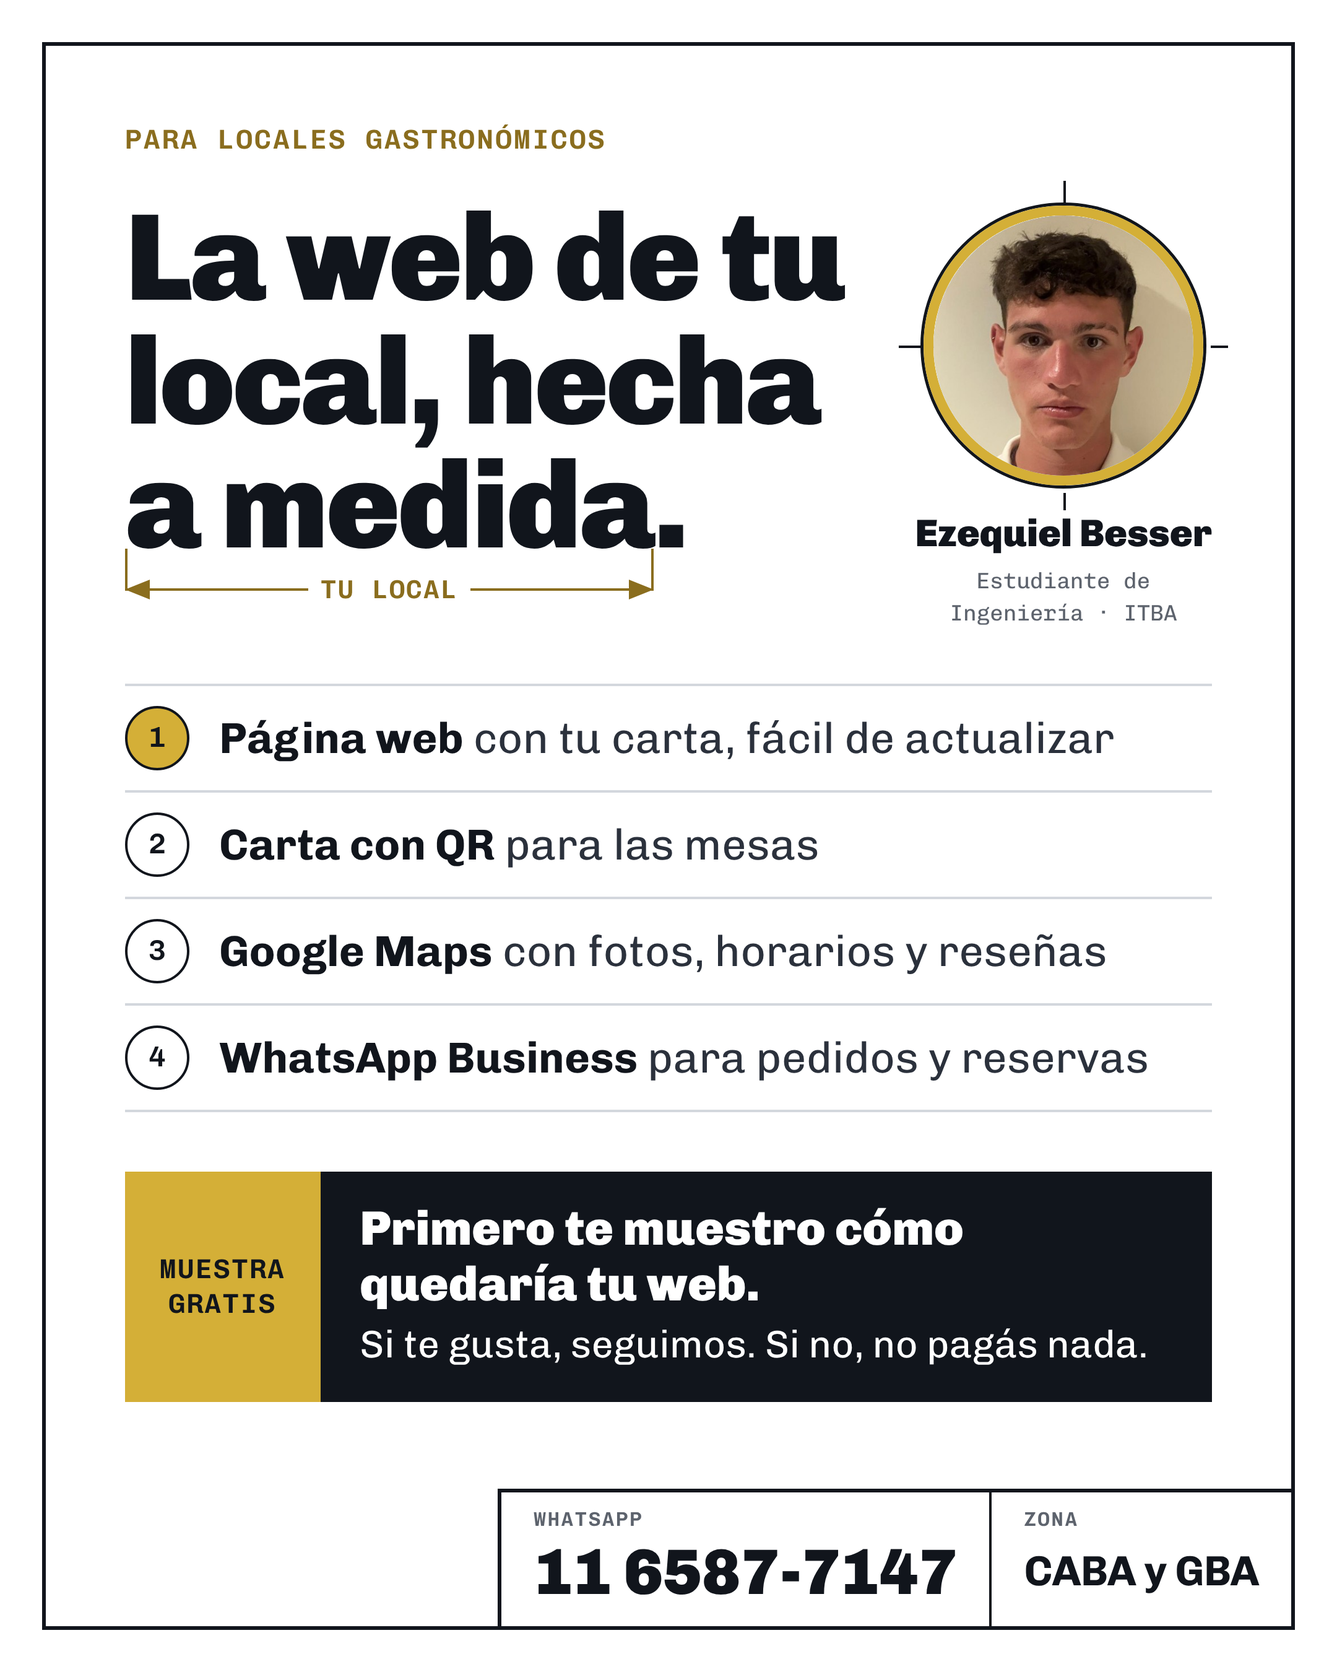
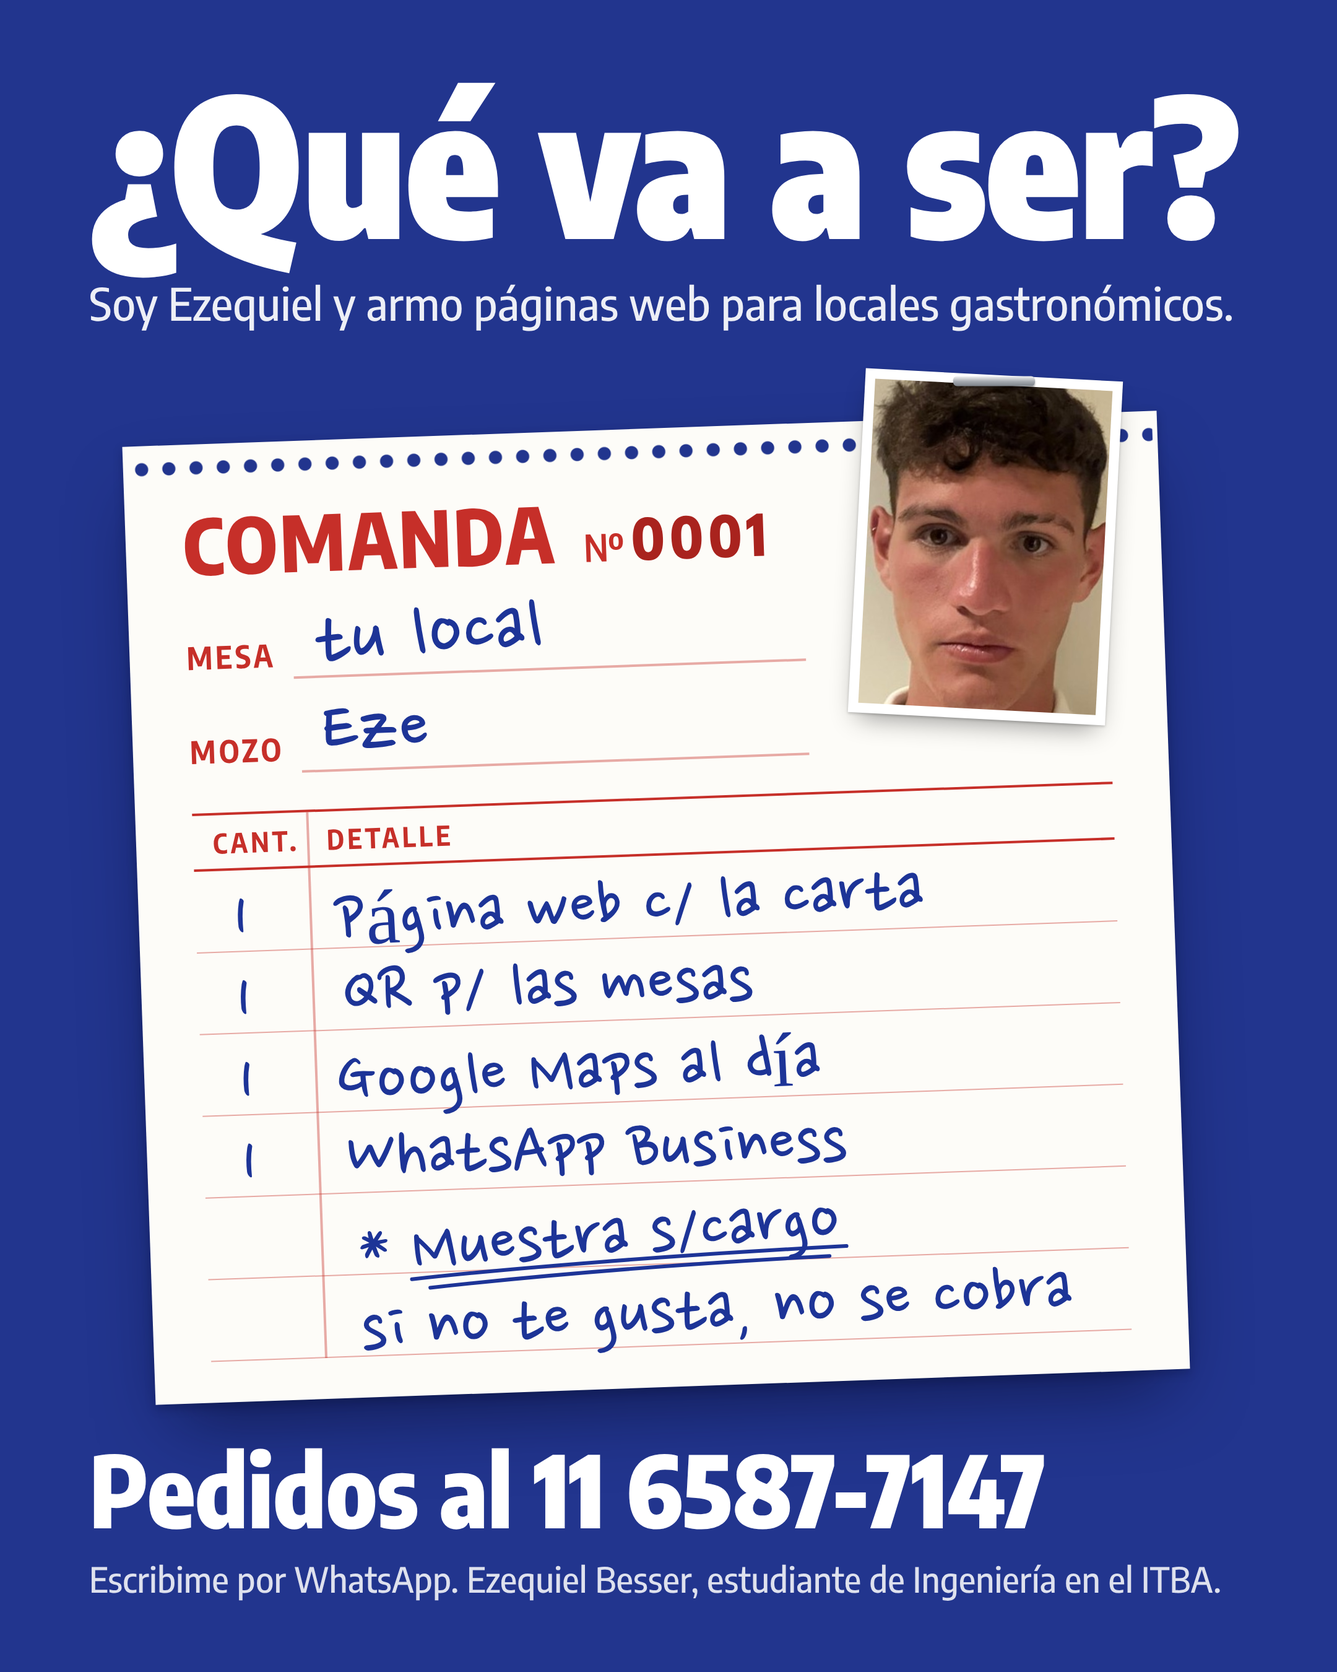
Flyer nuevo: la comanda del mozo
El anterior parecía hecho con IA (etiqueta en mayúsculas, círculos
numerados, «hecha a medida»). Ahora es una comanda de talonario impresa
en rojo y escrita con birome: «¿Qué va a ser?», Mesa: tu local,
Mozo: Eze con su foto carnet abrochada, los cuatro trabajos para
gastronomía y «Muestra s/cargo». Abajo, «Pedidos al 11 6587-7147»,
como en los imanes de delivery.

generar.js ahora avisa si no cargan las letras o si algo se encima.

Claude-Session: https://claude.ai/code/session_01Yb4EGLZtZgQK7kZLUGyvXu

diff --git a/flyer/index.html b/flyer/index.html
@@ -3,126 +3,113 @@
 <head>
 <meta charset="UTF-8">
 <meta name="viewport" content="width=device-width, initial-scale=1.0">
-<title>Ezequiel Besser · Webs para gastronomía</title>
-<meta name="description" content="Páginas web para locales gastronómicos de CABA y GBA: tu carta, carta con QR para las mesas, Google Maps y WhatsApp Business. Muestra gratis antes de pagar.">
-<meta property="og:title" content="Ezequiel Besser · La web de tu local, hecha a medida">
-<meta property="og:description" content="Para locales gastronómicos. Primero te muestro cómo quedaría tu web, gratis.">
+<title>Ezequiel Besser · Páginas web para locales gastronómicos</title>
+<meta name="description" content="Armo páginas web para locales gastronómicos de CABA y GBA: con la carta, QR para las mesas, Google Maps y WhatsApp Business. La muestra va sin cargo.">
+<meta property="og:title" content="¿Qué va a ser? · Páginas web para locales gastronómicos">
+<meta property="og:description" content="Soy Ezequiel y armo páginas web para locales gastronómicos. La muestra va sin cargo.">
 <meta property="og:image" content="https://ezebesserr.github.io/Ezequiel-Besser-repositorio-1/flyer/og.jpg">
 <meta property="og:url" content="https://ezebesserr.github.io/Ezequiel-Besser-repositorio-1/flyer/">
 <meta property="og:type" content="website">
 <link rel="preconnect" href="https://fonts.googleapis.com">
 <link rel="preconnect" href="https://fonts.gstatic.com" crossorigin>
-<link rel="stylesheet" href="https://fonts.googleapis.com/css2?family=Chivo:wght@400;700;900&family=Chivo+Mono:wght@400;600&display=swap">
+<link rel="stylesheet" href="https://fonts.googleapis.com/css2?family=Encode+Sans:wdth,wght@75..100,400..900&family=Nanum+Pen+Script&display=swap">
 <style>
-  /* Identidad: la lámina de un estudiante de Ingeniería (marco, cota, globos numerados, rótulo en la esquina)
-     con el tinta y el dorado de su página de clases. Letras de Omnibus-Type, fundición porteña.
-     Formato 1080×1350 (4:5): se manda por WhatsApp y así se ve entera en el chat. */
+  /* Una comanda de talonario, impresa en rojo y escrita con birome por el mozo.
+     Azul de la birome (invento porteño) y rojo de imprenta. Encode Sans es de Impallari (Rosario).
+     Formato 1080×1350 (4:5) para que WhatsApp la muestre entera en el chat. */
   :root{
-    --tinta:#11151c; --tinta-2:#2b313c; --gris:#5d636d; --linea:#d3d7dd;
-    --oro:#d4af37; --oro-osc:#8a6d1e;
-    --f:"Chivo",system-ui,sans-serif; --mono:"Chivo Mono",ui-monospace,monospace;
+    --birome:#22358e; --tinta:#1d3497; --rojo:#c62f29; --rojo-2:#a9231e; --rojo-linea:rgba(198,47,41,.4);
+    --papel:#fdfcf8;
+    --f:"Encode Sans",system-ui,sans-serif; --mano:"Nanum Pen Script","Comic Sans MS",cursive;
   }
   *{box-sizing:border-box;margin:0;padding:0}
-  html,body{background:#dfe2e6}
-  body{font-family:var(--f);color:var(--tinta)}
+  html,body{background:#d9dbe0}
+  body{font-family:var(--f)}
 
-  .hoja{width:1080px;height:1350px;margin:0 auto;position:relative;overflow:hidden;background:#fff}
-  @media screen and (min-width:1110px){.hoja{margin:24px auto;box-shadow:0 2px 14px rgba(0,0,0,.18)}}
-  .marco{position:absolute;inset:34px;border:3px solid var(--tinta)}
-  .lamina{position:absolute;inset:37px;padding:62px 64px 0;display:flex;flex-direction:column}
+  .hoja{width:1080px;height:1350px;margin:0 auto;position:relative;overflow:hidden;background:var(--birome);color:#fff}
+  @media screen and (min-width:1110px){.hoja{margin:24px auto;box-shadow:0 2px 14px rgba(0,0,0,.2)}}
 
-  .etq{font:600 22px/1.3 var(--mono);letter-spacing:.08em;text-transform:uppercase;color:var(--oro-osc)}
+  .cabeza{position:absolute;left:72px;right:72px;top:58px}
+  h1{font-weight:900;font-stretch:75%;font-size:156px;line-height:.92;letter-spacing:-.012em}
+  .soy{font-weight:500;font-stretch:87.5%;font-size:36px;line-height:1.25;margin-top:20px;color:rgba(255,255,255,.92)}
 
-  /* Título y foto */
-  .cabeza{display:grid;grid-template-columns:1fr 240px;gap:28px;align-items:start;margin-top:30px}
-  h1{font:900 100px/1 var(--f);letter-spacing:-.022em;padding-bottom:50px}
-  .cota{position:relative;display:inline-block}
-  .cota-l{position:absolute;left:0;right:0;top:calc(100% + 6px);height:24px;display:flex;align-items:center;gap:10px;color:var(--oro-osc)}
-  .cota-l::before,.cota-l::after{content:"";position:absolute;bottom:11px;width:2px;height:34px;background:currentColor}
-  .cota-l::before{left:0} .cota-l::after{right:0}
-  .cota-l i{flex:1;height:2px;background:currentColor;position:relative}
-  .cota-l i::before{content:"";position:absolute;top:-7px;border:8px solid transparent}
-  .cota-l i:first-child::before{left:0;border-left:0;border-right:20px solid currentColor}
-  .cota-l i:last-child::before{right:0;border-right:0;border-left:20px solid currentColor}
-  .cota-l b{font:600 21px/1 var(--mono);letter-spacing:.06em;text-transform:uppercase}
+  /* La comanda */
+  .comanda{position:absolute;left:112px;top:346px;width:836px;height:774px;padding:50px 46px 0;
+    background:var(--papel);color:var(--rojo);transform:rotate(-2deg);
+    box-shadow:0 30px 60px -18px rgba(5,9,40,.6),0 3px 8px rgba(5,9,40,.25)}
+  .comanda::before{content:"";position:absolute;left:4px;right:4px;top:13px;height:12px;
+    background:radial-gradient(circle,var(--birome) 5px,transparent 5.6px) 0 0/22px 12px repeat-x}
 
-  .quien{text-align:center;padding-top:8px}
-  .foto{position:relative;width:226px;height:226px;margin:0 auto 22px}
-  .foto::before,.foto::after{content:"";position:absolute;z-index:0}
-  .foto::before{left:-20px;right:-20px;top:50%;height:2px;
-    background:repeating-linear-gradient(90deg,var(--tinta) 0 20px,transparent 20px 26px,var(--tinta) 26px 30px,transparent 30px 36px)}
-  .foto::after{top:-20px;bottom:-20px;left:50%;width:2px;
-    background:repeating-linear-gradient(180deg,var(--tinta) 0 20px,transparent 20px 26px,var(--tinta) 26px 30px,transparent 30px 36px)}
-  .foto img{position:relative;z-index:1;width:100%;height:100%;border-radius:50%;object-fit:cover;display:block;
-    border:8px solid var(--oro);box-shadow:0 0 0 2.5px var(--tinta)}
-  .nombre{font:900 31px/1.1 var(--f);letter-spacing:-.005em}
-  .cred{font:400 18px/1.45 var(--mono);color:var(--gris);margin-top:8px}
+  .enc{display:flex;align-items:baseline;gap:22px}
+  .enc .tit{font-weight:800;font-stretch:75%;font-size:62px;line-height:1;text-transform:uppercase;letter-spacing:.03em}
+  .enc .num{font-weight:600;font-stretch:75%;font-size:30px}
+  .enc .num b{font-weight:800;font-size:46px;letter-spacing:.08em;color:var(--rojo-2);margin-left:6px}
 
-  /* Lo que hago: cuatro piezas, con su globo */
-  .trabajos{list-style:none;margin-top:44px}
-  .trabajos li{display:flex;align-items:center;gap:24px;padding:16px 0;border-top:2px solid var(--linea);
-    font:400 35px/1.2 var(--f);color:var(--tinta-2)}
-  .trabajos li:last-child{border-bottom:2px solid var(--linea)}
-  .trabajos b{font-weight:700;color:var(--tinta)}
-  .globo{flex:0 0 auto;width:52px;height:52px;border-radius:50%;border:2.5px solid var(--tinta);
-    display:inline-flex;align-items:center;justify-content:center;font:600 23px/1 var(--mono);color:var(--tinta)}
-  .trabajos li:first-child .globo{background:var(--oro)}
+  .campo{display:flex;align-items:flex-end;gap:14px;width:500px;margin-top:16px}
+  .lbl{font-weight:700;font-stretch:75%;font-size:25px;line-height:1;letter-spacing:.1em;text-transform:uppercase;padding-bottom:7px}
+  .renglon{flex:1;height:60px;border-bottom:2px solid var(--rojo-linea);position:relative}
 
-  /* La oferta de entrada */
-  .gancho{display:flex;align-items:stretch;margin-top:48px;background:var(--tinta);color:#fff}
-  .gancho .tag{flex:0 0 auto;display:flex;align-items:center;padding:0 28px;background:var(--oro);color:var(--tinta);
-    font:600 22px/1.25 var(--mono);letter-spacing:.06em;text-transform:uppercase;text-align:center}
-  .gancho p{padding:24px 32px 26px;font:400 31px/1.3 var(--f)}
-  .gancho p b{display:block;font-weight:900;font-size:39px;line-height:1.15;margin-bottom:6px}
+  .mano{font-family:var(--mano);color:var(--tinta);line-height:1;white-space:nowrap;display:inline-block}
+  .renglon .mano{position:absolute;left:18px;bottom:-6px;font-size:70px}
 
-  /* Rótulo calzado en la esquina del marco */
-  .pie{margin:auto -64px 0 0;display:flex;justify-content:flex-end}
-  .rotulo{display:grid;grid-template-columns:auto auto;border:3px solid var(--tinta);border-right:0;border-bottom:0;background:#fff}
-  .rotulo > div{padding:14px 26px 18px}
-  .rotulo > div + div{border-left:2px solid var(--tinta)}
-  .rotulo small{display:block;font:600 16px/1 var(--mono);letter-spacing:.09em;text-transform:uppercase;color:var(--gris);margin-bottom:8px}
-  .rotulo strong{display:block;font:900 52px/1 var(--f);letter-spacing:-.01em}
-  .rotulo .zona strong{font-weight:700;font-size:34px;line-height:52px}
-  .rotulo a{color:inherit;text-decoration:none}
+  .tabla{margin-top:30px;border-top:2.5px solid var(--rojo);position:relative}
+  .tabla::before{content:"";position:absolute;left:92px;top:0;bottom:0;width:2px;background:var(--rojo-linea)}
+  .cab{display:grid;grid-template-columns:92px 1fr;border-bottom:2.5px solid var(--rojo);
+    font-weight:700;font-stretch:75%;font-size:22px;line-height:1;letter-spacing:.12em;text-transform:uppercase;padding:11px 0 10px}
+  .cab span{padding-left:16px}
+  .fila{display:grid;grid-template-columns:92px 1fr;height:66px;border-bottom:1.5px solid var(--rojo-linea);align-items:end}
+  .fila .mano{font-size:62px;padding-left:20px;margin-bottom:-5px}
+  .fila .c{padding-left:30px}
+  .subrayado{position:relative;display:inline-block}
+  .subr{position:absolute;left:-4px;right:-6px;bottom:-2px;width:calc(100% + 10px);height:16px;overflow:visible}
+
+  /* La foto carnet abrochada */
+  .carnet{position:absolute;top:-34px;right:38px;width:208px;height:278px;padding:8px;background:#fff;
+    transform:rotate(5deg);box-shadow:0 10px 22px -8px rgba(0,0,0,.45),0 1px 2px rgba(0,0,0,.2)}
+  .carnet img{width:100%;height:100%;object-fit:cover;display:block}
+  .grampa{position:absolute;top:1px;left:50%;width:66px;height:8px;margin-left:-33px;border-radius:3px;transform:rotate(-3deg);
+    background:linear-gradient(#f2f3f4,#a3a8ae 55%,#7d838a);box-shadow:0 1.5px 1.5px rgba(0,0,0,.35)}
+
+  /* Como en el imán de la heladera */
+  .pie{position:absolute;left:72px;right:72px;bottom:56px}
+  .pedidos{font-weight:800;font-stretch:75%;font-size:80px;line-height:1;letter-spacing:-.005em}
+  .pedidos b{font-weight:900}
+  .firma{font-weight:500;font-stretch:87.5%;font-size:28px;line-height:1.35;margin-top:14px;color:rgba(255,255,255,.85)}
+  .pie a{color:inherit;text-decoration:none}
 </style>
 </head>
 <body>
 <main class="hoja">
-  <div class="marco" aria-hidden="true"></div>
-  <div class="lamina">
-    <p class="etq">Para locales gastronómicos</p>
+  <header class="cabeza">
+    <h1>¿Qué va a ser?</h1>
+    <p class="soy">Soy Ezequiel y armo páginas web para locales gastronómicos.</p>
+  </header>
 
-    <header class="cabeza">
-      <h1>La web de tu local, hecha <span class="cota">a medida<span class="cota-l" aria-hidden="true"><i></i><b>tu local</b><i></i></span></span>.</h1>
-      <div class="quien">
-        <div class="foto"><img src="foto.jpg" alt="Ezequiel Besser" width="226" height="226"></div>
-        <p class="nombre">Ezequiel Besser</p>
-        <p class="cred">Estudiante de<br>Ingeniería · ITBA</p>
-      </div>
-    </header>
+  <section class="comanda" aria-label="Comanda con lo que hago">
+    <div class="enc"><span class="tit">Comanda</span><span class="num">Nº<b>0001</b></span></div>
+    <div class="campo"><span class="lbl">Mesa</span><span class="renglon"><span class="mano" style="transform:rotate(-2deg)">tu local</span></span></div>
+    <div class="campo"><span class="lbl">Mozo</span><span class="renglon"><span class="mano" style="transform:rotate(1.5deg)">Eze</span></span></div>
 
-    <ul class="trabajos">
-      <li><span class="globo">1</span><span><b>Página web</b> con tu carta, fácil de actualizar</span></li>
-      <li><span class="globo">2</span><span><b>Carta con QR</b> para las mesas</span></li>
-      <li><span class="globo">3</span><span><b>Google Maps</b> con fotos, horarios y reseñas</span></li>
-      <li><span class="globo">4</span><span><b>WhatsApp Business</b> para pedidos y reservas</span></li>
-    </ul>
-
-    <div class="gancho">
-      <span class="tag">Muestra<br>gratis</span>
-      <p><b>Primero te muestro cómo quedaría tu web.</b> Si te gusta, seguimos. Si no, no pagás nada.</p>
+    <div class="tabla">
+      <div class="cab"><span>Cant.</span><span>Detalle</span></div>
+      <div class="fila"><span class="mano c">1</span><span class="mano" style="transform:rotate(-1deg)">Página web c/ la carta</span></div>
+      <div class="fila"><span class="mano c">1</span><span class="mano" style="transform:rotate(.6deg) translateX(4px)">QR p/ las mesas</span></div>
+      <div class="fila"><span class="mano c">1</span><span class="mano" style="transform:rotate(-.8deg) translateX(-2px)">Google Maps al día</span></div>
+      <div class="fila"><span class="mano c">1</span><span class="mano" style="transform:rotate(.4deg) translateX(3px)">WhatsApp Business</span></div>
+      <div class="fila"><span></span><span class="mano" style="transform:rotate(-2.2deg) translateX(10px)">* <span class="subrayado">Muestra s/cargo<svg class="subr" viewBox="0 0 300 16" preserveAspectRatio="none" aria-hidden="true"><path d="M2 5 C 70 2, 180 1, 298 4 M14 13 C 100 9, 200 9, 286 11" fill="none" stroke="#1d3497" stroke-width="3" stroke-linecap="round" vector-effect="non-scaling-stroke"/></svg></span></span></div>
+      <div class="fila"><span></span><span class="mano" style="transform:rotate(-1.4deg) translateX(10px)">si no te gusta, no se cobra</span></div>
     </div>
 
-    <footer class="pie">
-      <div class="rotulo">
-        <div><small>WhatsApp</small><strong><a href="https://wa.me/5491165877147">11 6587-7147</a></strong></div>
-        <div class="zona"><small>Zona</small><strong>CABA y GBA</strong></div>
-      </div>
-    </footer>
-  </div>
+    <figure class="carnet"><img src="carnet.jpg" alt="Ezequiel Besser" width="192" height="262"><i class="grampa" aria-hidden="true"></i></figure>
+  </section>
+
+  <footer class="pie">
+    <p class="pedidos">Pedidos al <b><a href="https://wa.me/5491165877147">11 6587-7147</a></b></p>
+    <p class="firma">Escribime por WhatsApp. Ezequiel Besser, estudiante de Ingeniería en el ITBA.</p>
+  </footer>
 </main>
 <script>
-  // En pantallas angostas la hoja se achica entera.
+  // En pantallas angostas la imagen se achica entera.
   (function(){
     var h=document.querySelector('.hoja');
     function ajustar(){var w=document.documentElement.clientWidth;h.style.zoom=w<1080?(w/1080):'';}

diff --git a/flyer/generar.js b/flyer/generar.js
@@ -1,6 +1,6 @@
 // Saca el flyer para mandar por WhatsApp desde flyer/index.html:
 //   flyer.png (1080×1350, al doble de resolución) y og.jpg (1200×630, la vista previa cuando se comparte el link).
-// Después de cambiar un texto o el WhatsApp en index.html, corré: node flyer/generar.js
+// Después de cambiar un texto o el WhatsApp en index.html, corré: node flyer/generar.js (avisa si algo no entra).
 // Necesita Playwright con Chromium e internet para las letras de Google Fonts.
 const path = require('path');
 
@@ -14,13 +14,21 @@ const HTML = 'file://' + path.join(DIR, 'index.html');
   const p = await b.newPage({ viewport: { width: 1080, height: 1350 }, deviceScaleFactor: 2 });
   await p.goto(HTML, { waitUntil: 'networkidle' });
   await p.evaluate(() => document.fonts.ready);
-  const fuentes = await p.evaluate(() => [...document.fonts].filter(f => f.status === 'loaded').map(f => f.family));
-  if (!fuentes.some(f => f.startsWith('Chivo'))) console.log('AVISO: no cargaron las letras de Google Fonts (¿sin internet?). El flyer sale con letras de reemplazo.');
-  const desborde = await p.evaluate(() => {
-    const l = document.querySelector('.lamina');
-    return l.scrollHeight > l.clientHeight + 1 || [...document.querySelectorAll('.trabajos li')].some(li => li.getBoundingClientRect().height > 100);
+  const fuentes = await p.evaluate(() => [...document.fonts].filter(f => f.status === 'loaded').map(f => f.family.replace(/"/g, '')));
+  const faltan = ['Encode Sans', 'Nanum Pen Script'].filter(f => !fuentes.includes(f));
+  if (faltan.length) console.log('AVISO: no cargaron ' + faltan.join(' y ') + ' (¿sin internet?). El flyer sale con letras de reemplazo.');
+  const problemas = await p.evaluate(() => {
+    const r = s => document.querySelector(s).getBoundingClientRect();
+    const se = (a, b) => a.bottom > b.top && a.top < b.bottom && a.right > b.left && a.left < b.right;
+    const out = [];
+    const cab = r('.cabeza'), com = r('.comanda'), pie = r('.pie');
+    if (se(cab, com)) out.push('el título se encima con la comanda');
+    if (se(com, pie)) out.push('la comanda se encima con el teléfono');
+    if (pie.bottom > 1350 || cab.top < 0) out.push('algo se sale de la imagen');
+    document.querySelectorAll('.comanda .mano').forEach(m => { if (m.getBoundingClientRect().right > com.right - 12) out.push('no entra en la comanda: «' + m.textContent.trim().split('\n')[0] + '»'); });
+    return out;
   });
-  if (desborde) console.log('AVISO: algún texto no entra (se pasa del marco o un renglón de la lista se partió en dos). Acortalo y volvé a correr.');
+  problemas.forEach(x => console.log('AVISO: ' + x + '. Acortá el texto o movelo y volvé a correr.'));
   await p.screenshot({ path: path.join(DIR, 'flyer.png'), clip: { x: 0, y: 0, width: 1080, height: 1350 } });
 
   // Vista previa para compartir el link: la parte de arriba (título y foto), en 1200×630.

diff --git a/creador/diseno/identidades-usadas.md b/creador/diseno/identidades-usadas.md
@@ -9,4 +9,4 @@ Una fila por cada web que hacemos, para que ningún cliente se parezca a otro. A
 | 2026-11 | Papel Nort (Librerías Koruya, cinco sucursales en zona norte) | surtida, práctica, de zona norte | óxido #c0542a, amarillo lápiz #f2d533 y grafito #161616 (su logo: el búho que es pin y punta de lápiz) | Baloo 2 + Jost | búho y palomas en el cable (de su banner), lápiz HB con las sucursales, caja de 10 lápices de colores con los rubros, horario de cuaderno escolar, croquis en hoja cuadriculada |
 | 2026-11 | Bulonera Tres Hilos (muestra inventada, Munro) | técnica, rápida, de mostrador | pavonado #17191b, zinc #8d969c y el dorado del zincado bicromatado #d9a514 (las piezas mismas) | Big Shoulders Display + Work Sans + Red Hat Mono | peine de roscas (los rubros son sus hojas), escala de calibre, lista de precios por medida |
 | 2026-11 | Talleres «IA para tu comercio» (propio, de Ezequiel) | práctico, paciente, de barrio | verde pizarra #22332b, marco de madera #7a4f27, tiza #f2f0e8 y tiza amarilla #f0cf62 (el pizarrón del aula y del comercio; el dorado de su página de clases) | Cabin Sketch (solo títulos) + Atkinson Hyperlegible | pizarrón con marco de madera y el programa escrito en tiza |
-| 2026-11 | Flyer para locales gastronómicos (propio, de Ezequiel) | a medida, ordenado, de ingeniería | tinta #11151c y dorado #d4af37 (los de su página de clases) sobre blanco | Chivo + Chivo Mono (de Omnibus-Type, fundición porteña) | lámina de dibujo técnico: marco, cota «a medida», globos numerados y rótulo en la esquina con el WhatsApp |
+| 2026-11 | Flyer para locales gastronómicos (propio, de Ezequiel) | de mostrador, con humor, directo | azul birome #22358e (la tinta del mozo) y rojo de talonario #c62f29 sobre papel blanco | Encode Sans angosta (de Impallari, Rosario) + Nanum Pen Script (la letra del mozo) | comanda de talonario escrita a mano («¿Qué va a ser?», Mesa: tu local, Mozo: Eze), foto carnet abrochada y «Pedidos al…» como en los imanes de delivery |
